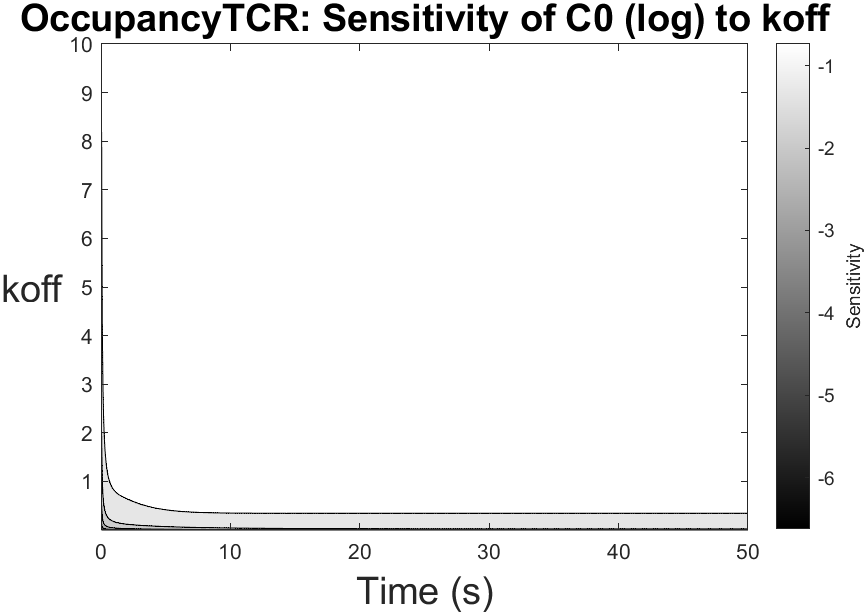
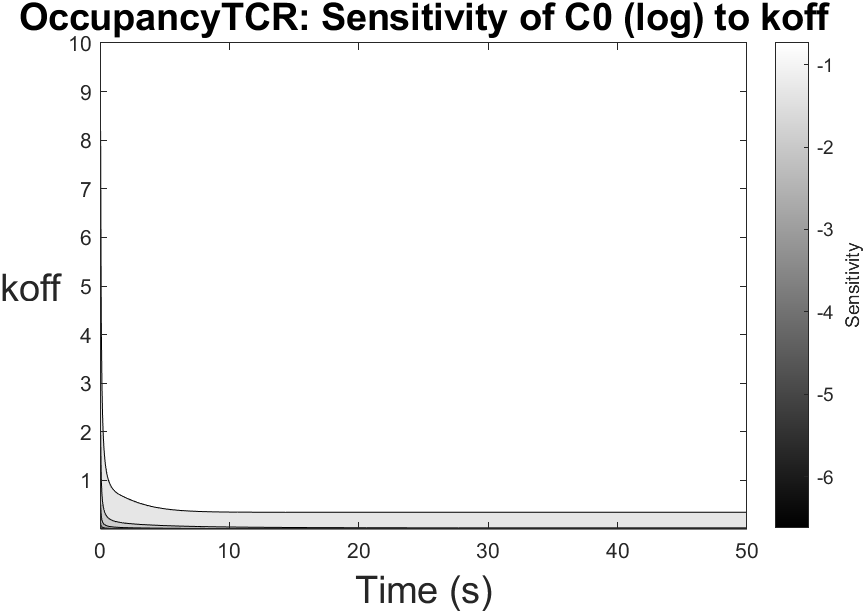
Finished the implementation of the sensitivity to initial conditions

diff --git a/v.5/src/PlotResultsICs.m b/v.5/src/PlotResultsICs.m
@@ -1,0 +1,115 @@
+function PlotResultsICs(results_matrix, ode_function, param_values, x0, ...
+                        tspan, ICVect, nIC, state_index, ...
+                        modelname, param_names, state_names, ...
+                        solver, rel_tol, abs_tol, visualization_choice)
+
+    % === VISUALIZATION NAME ===
+    switch visualization_choice
+        case 1
+            name_visual = 'gray';
+        case 2
+            name_visual = 'inferno';
+    end
+
+    % === OUTPUT FOLDER ===
+    solver_name = func2str(solver);
+    output_folder = fullfile(pwd, 'results', ...
+        ['SensitivityICs_Images_' modelname '_' name_visual]);
+    if ~exist(output_folder, 'dir')
+        mkdir(output_folder);
+    end
+    
+    ic_label = [state_names{nIC} '_0'];
+    
+    % === GENERATE INFO FILE TXT ===
+    info_path = fullfile(output_folder, 'run_options_ICs.txt');
+    fid = fopen(info_path, 'w');
+
+    fprintf(fid, '=== RUN CONFIGURATION (IC sensitivity) ===\n\n');
+
+    fprintf(fid, 'Model: %s\n', modelname);
+    fprintf(fid, 'ODE function: %s.m\n', func2str(ode_function));
+    fprintf(fid, 'Solver: %s\n', func2str(solver));
+    fprintf(fid, 'Relative Tolerance: %g\n', rel_tol);
+    fprintf(fid, 'Absolute Tolerance: %g\n', abs_tol);
+    fprintf(fid, 'Visualization: %s (option %d)\n', name_visual, visualization_choice);
+    fprintf(fid, 'State analyzed (output): %s (index %d)\n', ...
+            state_names{state_index}, state_index);
+    fprintf(fid, 'Initial condition varied: %s (index %d)\n', ...
+            ic_label, nIC);
+    fprintf(fid, 'Simulation step size: %g\n', tspan(2) - tspan(1));
+    fprintf(fid, 'Simulation end time: %g\n', tspan(end));
+    fprintf(fid, 'Sensitivity iterations: %d\n\n', size(results_matrix, 1));
+
+    fprintf(fid, '=== MODEL PARAMETERS ===\n');
+    for k = 1:length(param_names)
+        fprintf(fid, '%s = %.5g\n', param_names{k}, param_values(k));
+    end
+    fprintf(fid, '\n');
+
+    fprintf(fid, '=== MODEL STATES (initial conditions) ===\n');
+    for k = 1:length(state_names)
+        fprintf(fid, '%s = %.5g\n', state_names{k}, real(x0(k)));
+    end
+    
+    fclose(fid);
+    
+    % === PLOT FIGURES (NORMAL AND LOG SCALE) ===
+    matrix_to_plot = abs(results_matrix);
+
+    % ---------- NORMAL SCALE ----------
+    figura_normal = figure('Visible', 'off', 'Position', [100, 100, 600, 400]);
+    switch visualization_choice
+        case 1
+            contourf(tspan, ICVect, matrix_to_plot, 10, 'LineColor', 'k');
+            colormap(gray);
+            cb = colorbar;
+            cb.Label.String = 'Sensitivity';
+        case 2
+            inferno = csvread('inferno_colormap.csv');
+            contourf(tspan, ICVect, matrix_to_plot, 10, 'LineColor', 'k');
+            colormap(inferno);
+            cb = colorbar;
+            cb.Label.String = 'Sensitivity';
+    end
+    xlabel('Time (s)', 'FontSize', 18);
+    ylabel(ic_label, 'FontSize', 18, 'Rotation', 0);
+    title([modelname ': Sensitivity of ' state_names{state_index} ...
+           ' to ' ic_label], ...
+          'FontSize', 18, 'FontWeight', 'bold');
+    set(gca, 'YDir', 'normal');
+    
+    nombre_normal = fullfile(output_folder, ...
+        [modelname '_IC_' num2str(nIC) '_State_' num2str(state_index)]);
+    exportgraphics(figura_normal, [nombre_normal '.png'], ...
+                   'BackgroundColor','white','ContentType','image');
+    close(figura_normal);
+    
+    % ---------- LOG SCALE ----------
+    results_matrix_log = log10(abs(results_matrix));  
+    figura_log = figure('Visible', 'off', 'Position', [100, 100, 600, 400]);
+    switch visualization_choice
+        case 1
+            contourf(tspan, ICVect, results_matrix_log, 10, 'LineColor', 'k');
+            colormap(gray);
+            cb = colorbar;
+            cb.Label.String = 'log10(|Sensitivity|)';
+        case 2
+            inferno = csvread('inferno_colormap.csv');
+            contourf(tspan, ICVect, results_matrix_log, 10, 'LineColor', 'k');
+            colormap(inferno);
+            cb = colorbar;
+            cb.Label.String = 'log10(|Sensitivity|)';
+    end
+    xlabel('Time (s)', 'FontSize', 18);
+    ylabel(ic_label, 'FontSize', 18, 'Rotation', 0);
+    title([modelname ': log-sensitivity of ' state_names{state_index} ...
+           ' to ' ic_label], ...
+          'FontSize', 18, 'FontWeight', 'bold');
+    
+    nombre_log = fullfile(output_folder, ...
+        [modelname '_IC_' num2str(nIC) '_State_' num2str(state_index) '_log']);
+    exportgraphics(figura_log, [nombre_log '.png'], ...
+                   'BackgroundColor','white','ContentType','image');
+    close(figura_log);
+end

diff --git a/v.5/options.m b/v.5/options.m
@@ -23,7 +23,7 @@ function opts = options()
                                          %   2 - Results are shown in Heatmap form, INFERNO scale.
 
     % === SENSITIVITY TO INITIAL CONDITIONS ===
-    opts.ICsens = 'True';                % 'True' If you want to analyse the sensitivity to some initial condition; 'False' if not.
+    opts.ICsens = true;                % 'True' If you want to analyse the sensitivity to some initial condition; 'False' if not.
     opts.nStaIC = 1;                % Which initial condition you want to analyse. '1' for the first one, '2' for the second one, and so on.
     opts.rango = [1, 5e4];              % Range for the sensitivity analysis
 end

diff --git a/v.5/src/SensitivityOrganizer.m b/v.5/src/SensitivityOrganizer.m
@@ -24,9 +24,9 @@ function SensitivityOrganizer()
     end
     
     % For analysing the sensitivity to initial conditions we move to another script.
-    if opts.ICsens
+    if opts.ICsens 
 
-        sensitivityICs(model, opts);
+        sensitivityICs(model, opts, ode_function);
         
     else
 
